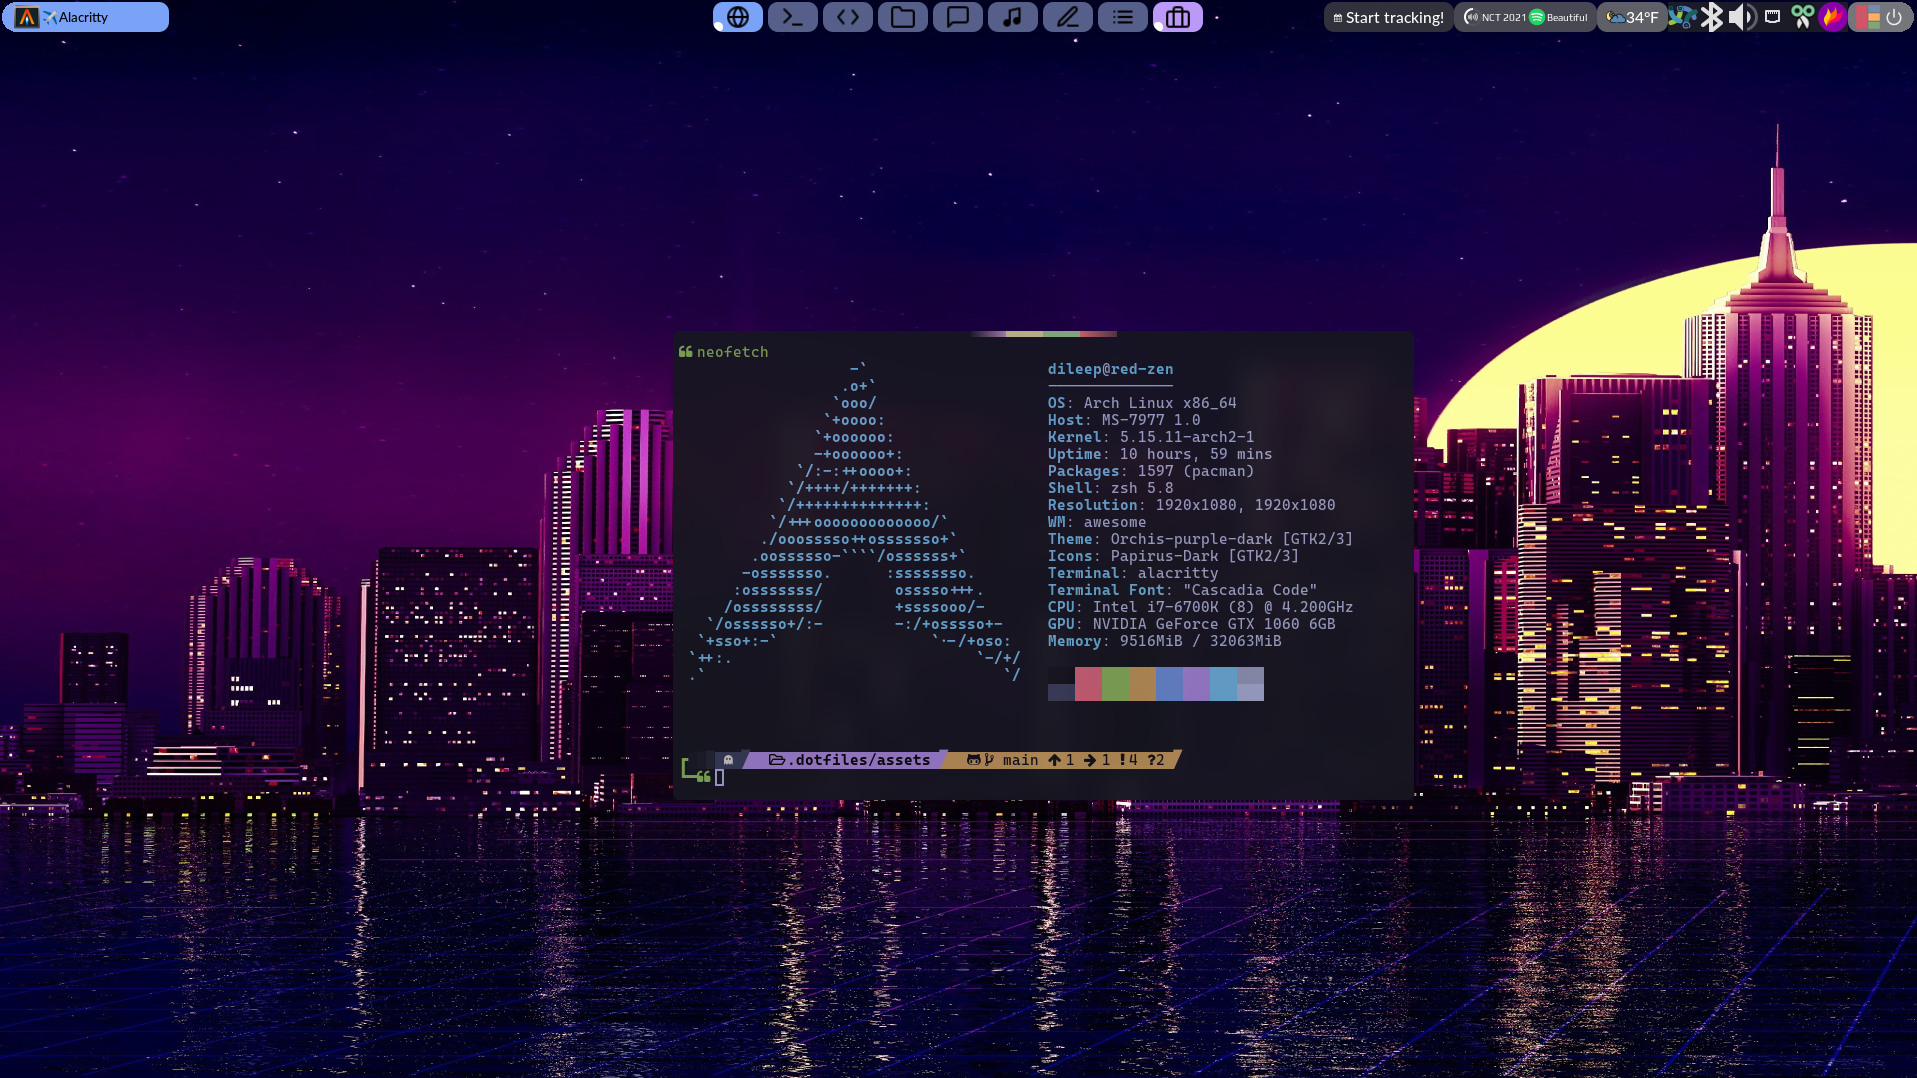
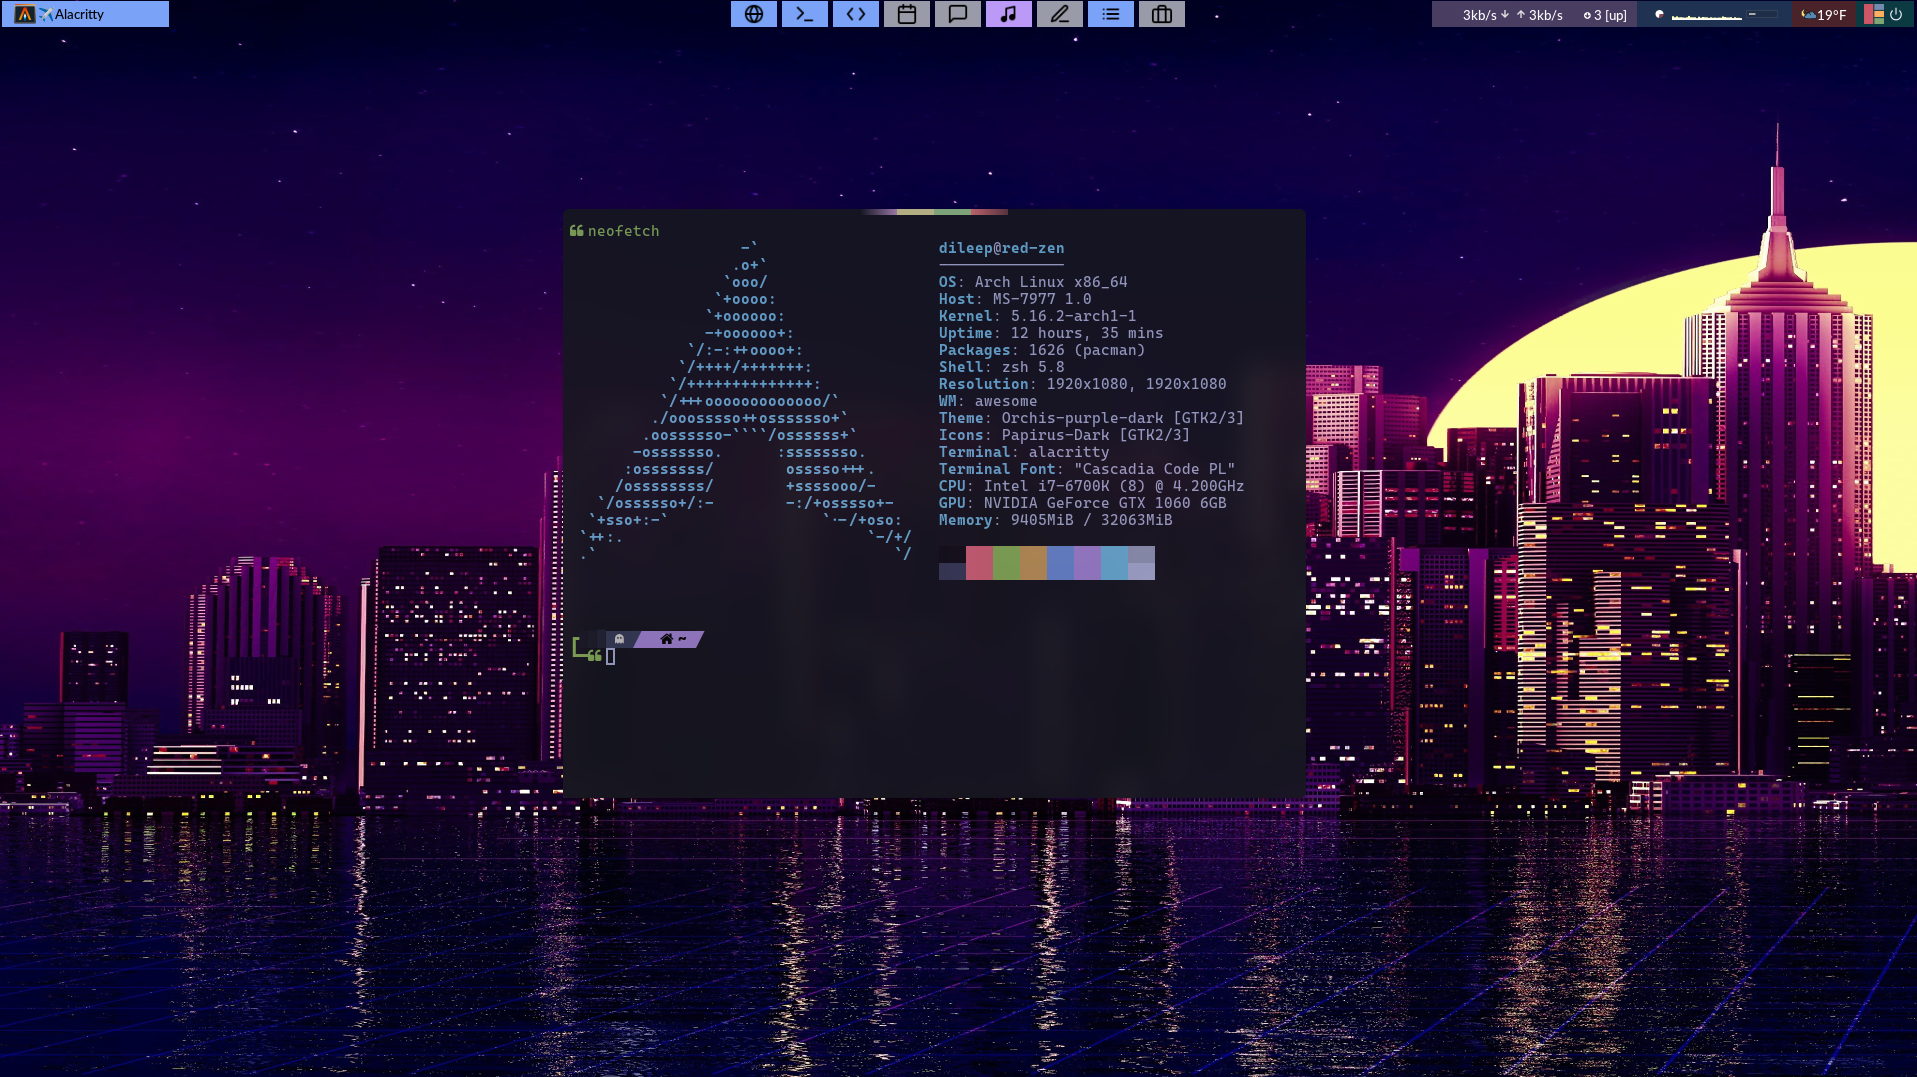
Chore: Update assets and README

diff --git a/README.md b/README.md
@@ -36,13 +36,14 @@
 
 ## Screenshots
 
-|                 | Image                     |
-| --------------- | ------------------------- |
-| Desktop1        | ![](assets/desktop1.png)  |
-| Desktop2        | ![](assets/desktop2.png)  |
-| Neovim          | ![](assets/neovim.png)    |
-| Terminal + Tmux | ![](assets/terminals.png) |
-| Doom Emacs      | ![](assets/emacs.png)     |
+|                        | Image                     |
+| ---------------------- | ------------------------- |
+| Desktop1               | ![](assets/desktop1.png)  |
+| Desktop2               | ![](assets/desktop2.png)  |
+| Neovim                 | ![](assets/neovim.png)    |
+| Terminal + Tmux        | ![](assets/terminals.png) |
+| Doom Emacs             | ![](assets/emacs.png)     |
+| Both screens + Spotify | ![](assets/desktop.png)   |
 
 ## Installation
 
@@ -58,28 +59,28 @@ If you install the dependencies manually, then the `dotfiles` can be used in any
 
 ## Packages
 
-| Name      | Details                                         |
-| --------- | ----------------------------------------------- |
-| Nitrogen  | Wallpaper manager                               |
-| rofi      | Application launcher and window switcher        |
-| nnn       | File explorer                                   |
-| Syncthing | Synchronize files between two or more computers |
-| Barrier   | Share mouse and keyboard                        |
-| Brave     | Browser                                         |
-| Enhancd   | A better cd with interactive filtering          |
-| Forgit    | A utility to use git interactively              |
-| fzf       | Fuzzy search and interactive filtering          |
-| fd        | A better alternative to find                    |
-| bat       | A better alternative to cat                     |
-| lsd       | The next generation ls command                  |
-| noti      | Send notifications from the terminal            |
-| sad       | CLI search and replace                          |
-| sd        | CLI search and replace                          |
-| ripgrep   | A better alternative to grep                    |
-| delta     | A git pager                                     |
-| zoxide    | Jump between directories in zsh                 |
-| atuin     | zsh history navigation                          |
-| espanso   | For text expansion                              |
+| Name         | Details                                         |
+| ------------ | ----------------------------------------------- |
+| Nitrogen     | Wallpaper manager                               |
+| rofi         | Application launcher and window switcher        |
+| ~~nnn~~ xplr | File explorer                                   |
+| Syncthing    | Synchronize files between two or more computers |
+| Barrier      | Share mouse and keyboard                        |
+| Brave        | Browser                                         |
+| Enhancd      | A better cd with interactive filtering          |
+| Forgit       | A utility to use git interactively              |
+| fzf          | Fuzzy search and interactive filtering          |
+| fd           | A better alternative to find                    |
+| bat          | A better alternative to cat                     |
+| lsd          | The next generation ls command                  |
+| noti         | Send notifications from the terminal            |
+| sad          | CLI search and replace                          |
+| sd           | CLI search and replace                          |
+| ripgrep      | A better alternative to grep                    |
+| delta        | A git pager                                     |
+| zoxide       | Jump between directories in zsh                 |
+| atuin        | zsh history navigation                          |
+| espanso      | For text expansion                              |
 
 ## Credits
 
